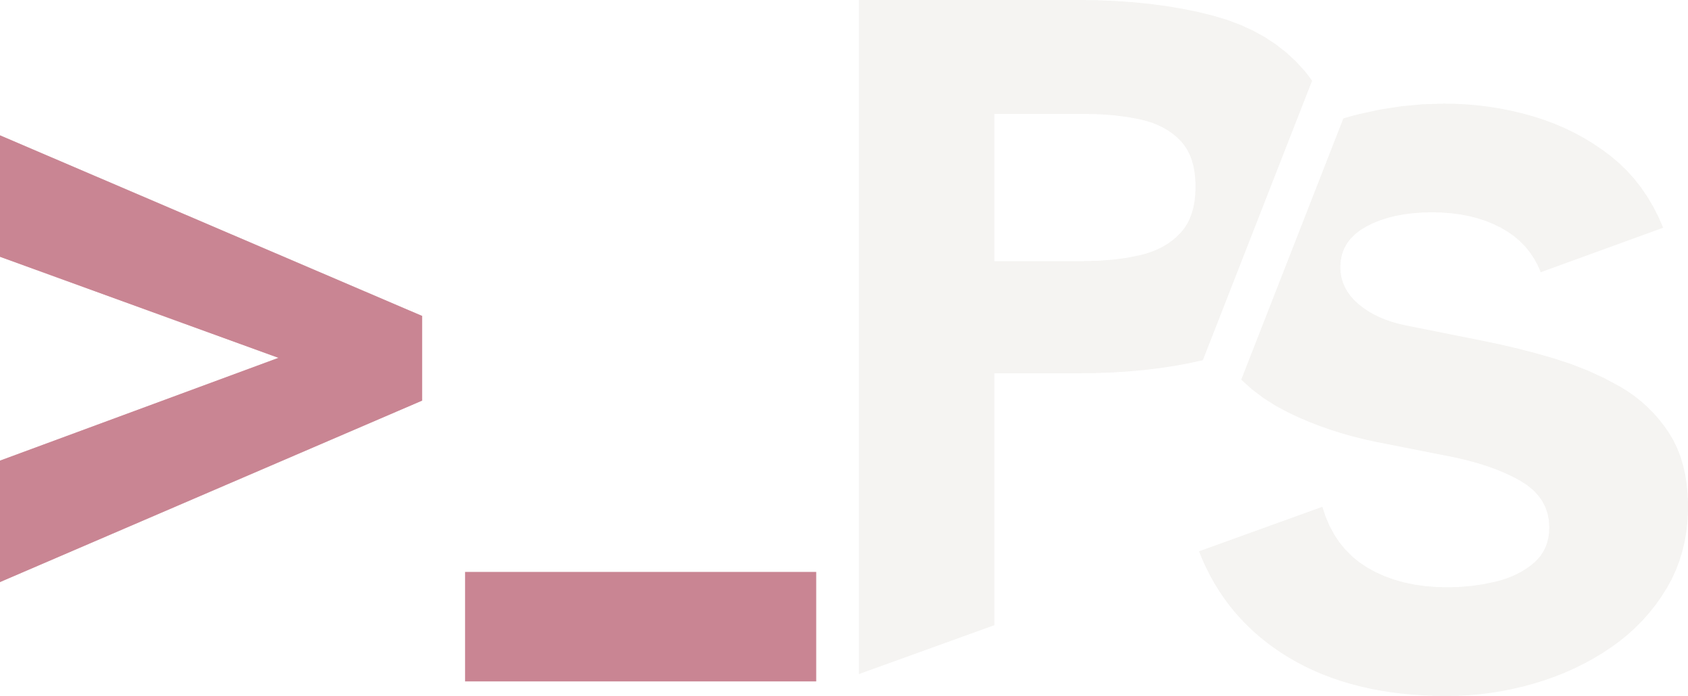
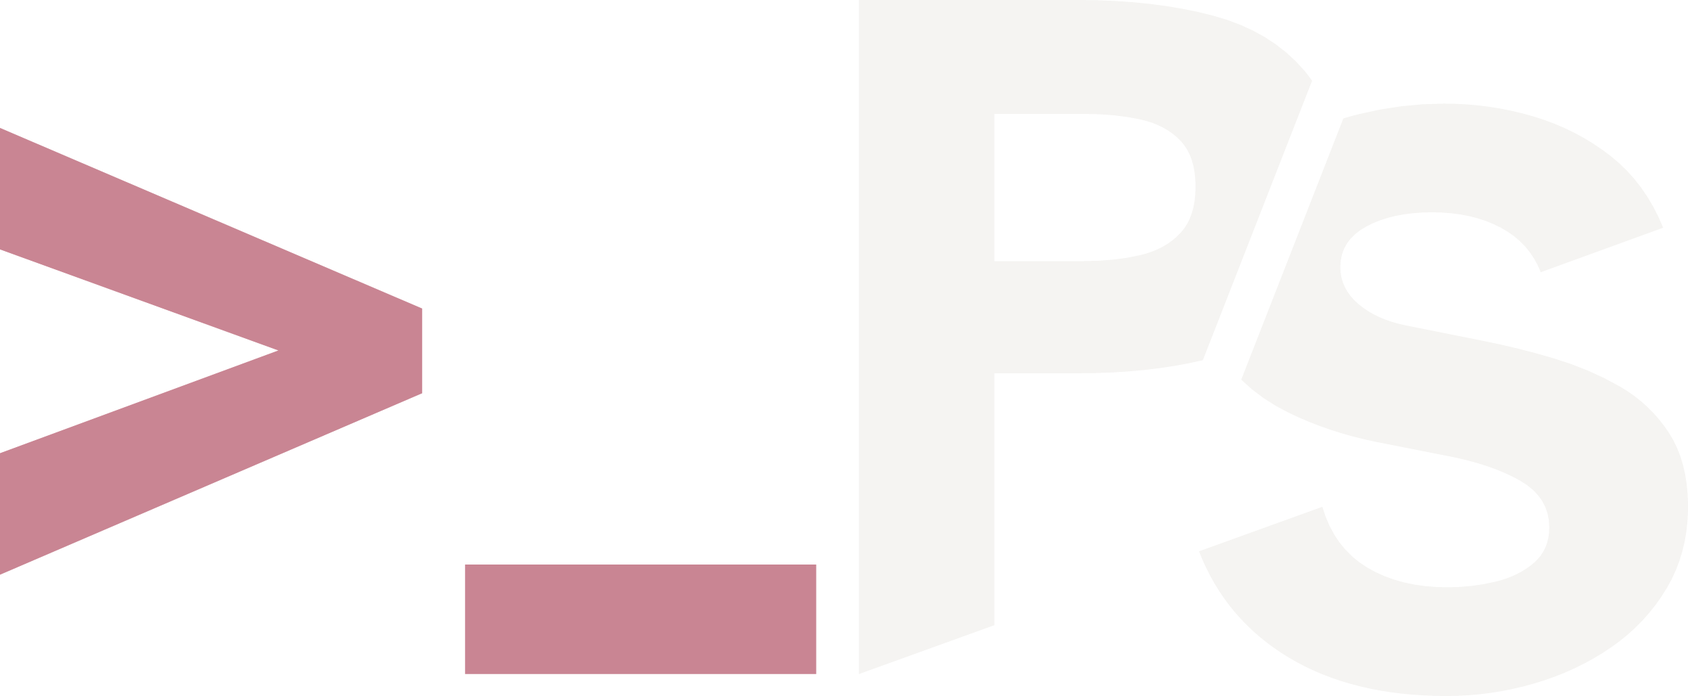
Lockup v2: >_ raised 8.63 units – the _ now ends on the P's foot
From the design (PS-Lockup v2, 29.10.2026): the _ ended 128 units below the
baseline, the P's foot at 119.37 – a near-miss, visible at large sizes. >_ is
raised as one unit by the difference, measured from the outlines; size,
spacing and the monogram are unchanged. src/lockup/ updated (generator, out/,
animation, README, new CHANGELOG). site.js: in the last step of the condensing
logo >_ rises with the S's step (RAISE * w), so the last drawn frame equals the
new static lockup (one antialiased pixel apart at 4x). Guide and decisions
updated.

Claude-Session: https://claude.ai/code/session_01RbRdR99UVq1kuPSyaMxg5y

diff --git a/site/datenschutz.html b/site/datenschutz.html
@@ -45,7 +45,7 @@
 <a class="skip" href="#main">Zum Inhalt springen</a>
 <header class="top">
 <div class="wrap">
-<a class="home" href="de/index.html"><svg class="lockup" xmlns="http://www.w3.org/2000/svg" viewBox="40 -668 1971.03 813" role="img" aria-label="Peter Stieg"><g class="still"><path style="fill:var(--accent,#7A1A2C)" d="M40 12 533 -200V-299L40 -510V-368L365 -250L40 -130ZM583 128H993V0H583Z"/><path style="fill:var(--ink,#1A1C1E)" d="M1043 119.37 1201 62.32V-232H1300Q1380.11 -232 1444.54 -247.26L1572.06 -573.65Q1568.04 -579.6 1563.5 -585Q1524 -632 1455.5 -650Q1387 -668 1300 -668H1043V119.37ZM1729.03 145Q1781.03 145 1831.03 130.5Q1881.03 116 1921.53 88Q1962.03 60 1986.53 18.5Q2011.03 -23 2011.03 -76Q2011.03 -128 1989.03 -162Q1967.03 -196 1931.53 -216.5Q1896.03 -237 1854.03 -249.5Q1812.03 -262 1771.03 -270L1681.03 -288Q1647.03 -295 1626.03 -313Q1605.03 -331 1605.03 -356Q1605.03 -387 1635.53 -403.5Q1666.03 -420 1712.03 -420Q1759.03 -420 1792.53 -402Q1826.03 -384 1839.03 -350L1982.03 -402Q1961.03 -454 1921.03 -485.5Q1881.03 -517 1830.53 -532Q1780.03 -547 1726.03 -547Q1676.03 -547 1626.03 -534.5Q1617.16 -532.28 1608.56 -529.67L1489.33 -224.52Q1512.87 -201.31 1545.53 -185.5Q1592.03 -163 1646.03 -152L1727.03 -136Q1781.03 -126 1815.03 -106.5Q1849.03 -87 1849.03 -52Q1849.03 -26 1831.03 -10.5Q1813.03 5 1786.03 11.5Q1759.03 18 1730.03 18Q1675.03 18 1636.53 -5Q1598.03 -28 1584.03 -76L1440.03 -24Q1471.03 56 1545.53 100.5Q1620.03 145 1729.03 145ZM1201 -363V-535H1305Q1342 -535 1371.5 -528.5Q1401 -522 1418.5 -503.5Q1436 -485 1436 -450Q1436 -415 1418.5 -396Q1401 -377 1371.5 -370Q1342 -363 1305 -363Z"/></g></svg></a>
+<a class="home" href="de/index.html"><svg class="lockup" xmlns="http://www.w3.org/2000/svg" viewBox="40 -668 1971.03 813" role="img" aria-label="Peter Stieg"><g class="still"><path style="fill:var(--accent,#7A1A2C)" d="M40 3.37 533 -208.63V-307.63L40 -518.63V-376.63L365 -258.63L40 -138.63ZM583 119.37H993V-8.63H583Z"/><path style="fill:var(--ink,#1A1C1E)" d="M1043 119.37 1201 62.32V-232H1300Q1380.11 -232 1444.54 -247.26L1572.06 -573.65Q1568.04 -579.6 1563.5 -585Q1524 -632 1455.5 -650Q1387 -668 1300 -668H1043V119.37ZM1729.03 145Q1781.03 145 1831.03 130.5Q1881.03 116 1921.53 88Q1962.03 60 1986.53 18.5Q2011.03 -23 2011.03 -76Q2011.03 -128 1989.03 -162Q1967.03 -196 1931.53 -216.5Q1896.03 -237 1854.03 -249.5Q1812.03 -262 1771.03 -270L1681.03 -288Q1647.03 -295 1626.03 -313Q1605.03 -331 1605.03 -356Q1605.03 -387 1635.53 -403.5Q1666.03 -420 1712.03 -420Q1759.03 -420 1792.53 -402Q1826.03 -384 1839.03 -350L1982.03 -402Q1961.03 -454 1921.03 -485.5Q1881.03 -517 1830.53 -532Q1780.03 -547 1726.03 -547Q1676.03 -547 1626.03 -534.5Q1617.16 -532.28 1608.56 -529.67L1489.33 -224.52Q1512.87 -201.31 1545.53 -185.5Q1592.03 -163 1646.03 -152L1727.03 -136Q1781.03 -126 1815.03 -106.5Q1849.03 -87 1849.03 -52Q1849.03 -26 1831.03 -10.5Q1813.03 5 1786.03 11.5Q1759.03 18 1730.03 18Q1675.03 18 1636.53 -5Q1598.03 -28 1584.03 -76L1440.03 -24Q1471.03 56 1545.53 100.5Q1620.03 145 1729.03 145ZM1201 -363V-535H1305Q1342 -535 1371.5 -528.5Q1401 -522 1418.5 -503.5Q1436 -485 1436 -450Q1436 -415 1418.5 -396Q1401 -377 1371.5 -370Q1342 -363 1305 -363Z"/></g></svg></a>
 <nav class="nav" aria-label="Hauptnavigation">
 
 <span class="themes" role="group" aria-label="Darstellung"><button type="button" data-theme-set="light" aria-pressed="false" aria-label="Hell" title="Hell"><svg viewBox="0 0 16 16" aria-hidden="true" focusable="false"><circle cx="8" cy="8" r="3"/><path d="M8 1v1.6M8 13.4V15M1 8h1.6M13.4 8H15M3.05 3.05l1.13 1.13M11.82 11.82l1.13 1.13M3.05 12.95l1.13-1.13M11.82 4.18l1.13-1.13"/></svg></button><button type="button" data-theme-set="dark" aria-pressed="false" aria-label="Dunkel" title="Dunkel"><svg viewBox="0 0 16 16" aria-hidden="true" focusable="false"><path d="M13.6 10.2A6 6 0 0 1 5.8 2.4a6 6 0 1 0 7.8 7.8z"/></svg></button></span></nav>

diff --git a/site/impressum.html b/site/impressum.html
@@ -45,7 +45,7 @@
 <a class="skip" href="#main">Zum Inhalt springen</a>
 <header class="top">
 <div class="wrap">
-<a class="home" href="de/index.html"><svg class="lockup" xmlns="http://www.w3.org/2000/svg" viewBox="40 -668 1971.03 813" role="img" aria-label="Peter Stieg"><g class="still"><path style="fill:var(--accent,#7A1A2C)" d="M40 12 533 -200V-299L40 -510V-368L365 -250L40 -130ZM583 128H993V0H583Z"/><path style="fill:var(--ink,#1A1C1E)" d="M1043 119.37 1201 62.32V-232H1300Q1380.11 -232 1444.54 -247.26L1572.06 -573.65Q1568.04 -579.6 1563.5 -585Q1524 -632 1455.5 -650Q1387 -668 1300 -668H1043V119.37ZM1729.03 145Q1781.03 145 1831.03 130.5Q1881.03 116 1921.53 88Q1962.03 60 1986.53 18.5Q2011.03 -23 2011.03 -76Q2011.03 -128 1989.03 -162Q1967.03 -196 1931.53 -216.5Q1896.03 -237 1854.03 -249.5Q1812.03 -262 1771.03 -270L1681.03 -288Q1647.03 -295 1626.03 -313Q1605.03 -331 1605.03 -356Q1605.03 -387 1635.53 -403.5Q1666.03 -420 1712.03 -420Q1759.03 -420 1792.53 -402Q1826.03 -384 1839.03 -350L1982.03 -402Q1961.03 -454 1921.03 -485.5Q1881.03 -517 1830.53 -532Q1780.03 -547 1726.03 -547Q1676.03 -547 1626.03 -534.5Q1617.16 -532.28 1608.56 -529.67L1489.33 -224.52Q1512.87 -201.31 1545.53 -185.5Q1592.03 -163 1646.03 -152L1727.03 -136Q1781.03 -126 1815.03 -106.5Q1849.03 -87 1849.03 -52Q1849.03 -26 1831.03 -10.5Q1813.03 5 1786.03 11.5Q1759.03 18 1730.03 18Q1675.03 18 1636.53 -5Q1598.03 -28 1584.03 -76L1440.03 -24Q1471.03 56 1545.53 100.5Q1620.03 145 1729.03 145ZM1201 -363V-535H1305Q1342 -535 1371.5 -528.5Q1401 -522 1418.5 -503.5Q1436 -485 1436 -450Q1436 -415 1418.5 -396Q1401 -377 1371.5 -370Q1342 -363 1305 -363Z"/></g></svg></a>
+<a class="home" href="de/index.html"><svg class="lockup" xmlns="http://www.w3.org/2000/svg" viewBox="40 -668 1971.03 813" role="img" aria-label="Peter Stieg"><g class="still"><path style="fill:var(--accent,#7A1A2C)" d="M40 3.37 533 -208.63V-307.63L40 -518.63V-376.63L365 -258.63L40 -138.63ZM583 119.37H993V-8.63H583Z"/><path style="fill:var(--ink,#1A1C1E)" d="M1043 119.37 1201 62.32V-232H1300Q1380.11 -232 1444.54 -247.26L1572.06 -573.65Q1568.04 -579.6 1563.5 -585Q1524 -632 1455.5 -650Q1387 -668 1300 -668H1043V119.37ZM1729.03 145Q1781.03 145 1831.03 130.5Q1881.03 116 1921.53 88Q1962.03 60 1986.53 18.5Q2011.03 -23 2011.03 -76Q2011.03 -128 1989.03 -162Q1967.03 -196 1931.53 -216.5Q1896.03 -237 1854.03 -249.5Q1812.03 -262 1771.03 -270L1681.03 -288Q1647.03 -295 1626.03 -313Q1605.03 -331 1605.03 -356Q1605.03 -387 1635.53 -403.5Q1666.03 -420 1712.03 -420Q1759.03 -420 1792.53 -402Q1826.03 -384 1839.03 -350L1982.03 -402Q1961.03 -454 1921.03 -485.5Q1881.03 -517 1830.53 -532Q1780.03 -547 1726.03 -547Q1676.03 -547 1626.03 -534.5Q1617.16 -532.28 1608.56 -529.67L1489.33 -224.52Q1512.87 -201.31 1545.53 -185.5Q1592.03 -163 1646.03 -152L1727.03 -136Q1781.03 -126 1815.03 -106.5Q1849.03 -87 1849.03 -52Q1849.03 -26 1831.03 -10.5Q1813.03 5 1786.03 11.5Q1759.03 18 1730.03 18Q1675.03 18 1636.53 -5Q1598.03 -28 1584.03 -76L1440.03 -24Q1471.03 56 1545.53 100.5Q1620.03 145 1729.03 145ZM1201 -363V-535H1305Q1342 -535 1371.5 -528.5Q1401 -522 1418.5 -503.5Q1436 -485 1436 -450Q1436 -415 1418.5 -396Q1401 -377 1371.5 -370Q1342 -363 1305 -363Z"/></g></svg></a>
 <nav class="nav" aria-label="Hauptnavigation">
 
 <span class="themes" role="group" aria-label="Darstellung"><button type="button" data-theme-set="light" aria-pressed="false" aria-label="Hell" title="Hell"><svg viewBox="0 0 16 16" aria-hidden="true" focusable="false"><circle cx="8" cy="8" r="3"/><path d="M8 1v1.6M8 13.4V15M1 8h1.6M13.4 8H15M3.05 3.05l1.13 1.13M11.82 11.82l1.13 1.13M3.05 12.95l1.13-1.13M11.82 4.18l1.13-1.13"/></svg></button><button type="button" data-theme-set="dark" aria-pressed="false" aria-label="Dunkel" title="Dunkel"><svg viewBox="0 0 16 16" aria-hidden="true" focusable="false"><path d="M13.6 10.2A6 6 0 0 1 5.8 2.4a6 6 0 1 0 7.8 7.8z"/></svg></button></span></nav>

diff --git a/site/de/index.html b/site/de/index.html
@@ -49,7 +49,7 @@
 <a class="skip" href="#main">Zum Inhalt springen</a>
 <header class="top">
 <div class="wrap">
-<a class="home" href="#top"><span class="word" aria-hidden="true"><span class="caret">&gt;_</span><span class="name">Peter Stieg</span></span><svg class="lockup" xmlns="http://www.w3.org/2000/svg" viewBox="40 -668 1971.03 813" role="img" aria-label="Peter Stieg"><g class="still"><path style="fill:var(--accent,#7A1A2C)" d="M40 12 533 -200V-299L40 -510V-368L365 -250L40 -130ZM583 128H993V0H583Z"/><path style="fill:var(--ink,#1A1C1E)" d="M1043 119.37 1201 62.32V-232H1300Q1380.11 -232 1444.54 -247.26L1572.06 -573.65Q1568.04 -579.6 1563.5 -585Q1524 -632 1455.5 -650Q1387 -668 1300 -668H1043V119.37ZM1729.03 145Q1781.03 145 1831.03 130.5Q1881.03 116 1921.53 88Q1962.03 60 1986.53 18.5Q2011.03 -23 2011.03 -76Q2011.03 -128 1989.03 -162Q1967.03 -196 1931.53 -216.5Q1896.03 -237 1854.03 -249.5Q1812.03 -262 1771.03 -270L1681.03 -288Q1647.03 -295 1626.03 -313Q1605.03 -331 1605.03 -356Q1605.03 -387 1635.53 -403.5Q1666.03 -420 1712.03 -420Q1759.03 -420 1792.53 -402Q1826.03 -384 1839.03 -350L1982.03 -402Q1961.03 -454 1921.03 -485.5Q1881.03 -517 1830.53 -532Q1780.03 -547 1726.03 -547Q1676.03 -547 1626.03 -534.5Q1617.16 -532.28 1608.56 -529.67L1489.33 -224.52Q1512.87 -201.31 1545.53 -185.5Q1592.03 -163 1646.03 -152L1727.03 -136Q1781.03 -126 1815.03 -106.5Q1849.03 -87 1849.03 -52Q1849.03 -26 1831.03 -10.5Q1813.03 5 1786.03 11.5Q1759.03 18 1730.03 18Q1675.03 18 1636.53 -5Q1598.03 -28 1584.03 -76L1440.03 -24Q1471.03 56 1545.53 100.5Q1620.03 145 1729.03 145ZM1201 -363V-535H1305Q1342 -535 1371.5 -528.5Q1401 -522 1418.5 -503.5Q1436 -485 1436 -450Q1436 -415 1418.5 -396Q1401 -377 1371.5 -370Q1342 -363 1305 -363Z"/></g></svg></a>
+<a class="home" href="#top"><span class="word" aria-hidden="true"><span class="caret">&gt;_</span><span class="name">Peter Stieg</span></span><svg class="lockup" xmlns="http://www.w3.org/2000/svg" viewBox="40 -668 1971.03 813" role="img" aria-label="Peter Stieg"><g class="still"><path style="fill:var(--accent,#7A1A2C)" d="M40 3.37 533 -208.63V-307.63L40 -518.63V-376.63L365 -258.63L40 -138.63ZM583 119.37H993V-8.63H583Z"/><path style="fill:var(--ink,#1A1C1E)" d="M1043 119.37 1201 62.32V-232H1300Q1380.11 -232 1444.54 -247.26L1572.06 -573.65Q1568.04 -579.6 1563.5 -585Q1524 -632 1455.5 -650Q1387 -668 1300 -668H1043V119.37ZM1729.03 145Q1781.03 145 1831.03 130.5Q1881.03 116 1921.53 88Q1962.03 60 1986.53 18.5Q2011.03 -23 2011.03 -76Q2011.03 -128 1989.03 -162Q1967.03 -196 1931.53 -216.5Q1896.03 -237 1854.03 -249.5Q1812.03 -262 1771.03 -270L1681.03 -288Q1647.03 -295 1626.03 -313Q1605.03 -331 1605.03 -356Q1605.03 -387 1635.53 -403.5Q1666.03 -420 1712.03 -420Q1759.03 -420 1792.53 -402Q1826.03 -384 1839.03 -350L1982.03 -402Q1961.03 -454 1921.03 -485.5Q1881.03 -517 1830.53 -532Q1780.03 -547 1726.03 -547Q1676.03 -547 1626.03 -534.5Q1617.16 -532.28 1608.56 -529.67L1489.33 -224.52Q1512.87 -201.31 1545.53 -185.5Q1592.03 -163 1646.03 -152L1727.03 -136Q1781.03 -126 1815.03 -106.5Q1849.03 -87 1849.03 -52Q1849.03 -26 1831.03 -10.5Q1813.03 5 1786.03 11.5Q1759.03 18 1730.03 18Q1675.03 18 1636.53 -5Q1598.03 -28 1584.03 -76L1440.03 -24Q1471.03 56 1545.53 100.5Q1620.03 145 1729.03 145ZM1201 -363V-535H1305Q1342 -535 1371.5 -528.5Q1401 -522 1418.5 -503.5Q1436 -485 1436 -450Q1436 -415 1418.5 -396Q1401 -377 1371.5 -370Q1342 -363 1305 -363Z"/></g></svg></a>
 <nav class="nav" aria-label="Hauptnavigation"><a class="sect" href="#profil"><span class="no" aria-hidden="true">01</span> <span class="label" data-label="Profil">Profil</span></a>
 <a class="sect" href="#stationen"><span class="no" aria-hidden="true">02</span> <span class="label" data-label="Stationen">Stationen</span></a>
 <a class="sect" href="#projekte"><span class="no" aria-hidden="true">03</span> <span class="label" data-label="Projekte">Projekte</span></a>

diff --git a/site/index.html b/site/index.html
@@ -49,7 +49,7 @@
 <a class="skip" href="#main">Skip to content</a>
 <header class="top">
 <div class="wrap">
-<a class="home" href="#top"><span class="word" aria-hidden="true"><span class="caret">&gt;_</span><span class="name">Peter Stieg</span></span><svg class="lockup" xmlns="http://www.w3.org/2000/svg" viewBox="40 -668 1971.03 813" role="img" aria-label="Peter Stieg"><g class="still"><path style="fill:var(--accent,#7A1A2C)" d="M40 12 533 -200V-299L40 -510V-368L365 -250L40 -130ZM583 128H993V0H583Z"/><path style="fill:var(--ink,#1A1C1E)" d="M1043 119.37 1201 62.32V-232H1300Q1380.11 -232 1444.54 -247.26L1572.06 -573.65Q1568.04 -579.6 1563.5 -585Q1524 -632 1455.5 -650Q1387 -668 1300 -668H1043V119.37ZM1729.03 145Q1781.03 145 1831.03 130.5Q1881.03 116 1921.53 88Q1962.03 60 1986.53 18.5Q2011.03 -23 2011.03 -76Q2011.03 -128 1989.03 -162Q1967.03 -196 1931.53 -216.5Q1896.03 -237 1854.03 -249.5Q1812.03 -262 1771.03 -270L1681.03 -288Q1647.03 -295 1626.03 -313Q1605.03 -331 1605.03 -356Q1605.03 -387 1635.53 -403.5Q1666.03 -420 1712.03 -420Q1759.03 -420 1792.53 -402Q1826.03 -384 1839.03 -350L1982.03 -402Q1961.03 -454 1921.03 -485.5Q1881.03 -517 1830.53 -532Q1780.03 -547 1726.03 -547Q1676.03 -547 1626.03 -534.5Q1617.16 -532.28 1608.56 -529.67L1489.33 -224.52Q1512.87 -201.31 1545.53 -185.5Q1592.03 -163 1646.03 -152L1727.03 -136Q1781.03 -126 1815.03 -106.5Q1849.03 -87 1849.03 -52Q1849.03 -26 1831.03 -10.5Q1813.03 5 1786.03 11.5Q1759.03 18 1730.03 18Q1675.03 18 1636.53 -5Q1598.03 -28 1584.03 -76L1440.03 -24Q1471.03 56 1545.53 100.5Q1620.03 145 1729.03 145ZM1201 -363V-535H1305Q1342 -535 1371.5 -528.5Q1401 -522 1418.5 -503.5Q1436 -485 1436 -450Q1436 -415 1418.5 -396Q1401 -377 1371.5 -370Q1342 -363 1305 -363Z"/></g></svg></a>
+<a class="home" href="#top"><span class="word" aria-hidden="true"><span class="caret">&gt;_</span><span class="name">Peter Stieg</span></span><svg class="lockup" xmlns="http://www.w3.org/2000/svg" viewBox="40 -668 1971.03 813" role="img" aria-label="Peter Stieg"><g class="still"><path style="fill:var(--accent,#7A1A2C)" d="M40 3.37 533 -208.63V-307.63L40 -518.63V-376.63L365 -258.63L40 -138.63ZM583 119.37H993V-8.63H583Z"/><path style="fill:var(--ink,#1A1C1E)" d="M1043 119.37 1201 62.32V-232H1300Q1380.11 -232 1444.54 -247.26L1572.06 -573.65Q1568.04 -579.6 1563.5 -585Q1524 -632 1455.5 -650Q1387 -668 1300 -668H1043V119.37ZM1729.03 145Q1781.03 145 1831.03 130.5Q1881.03 116 1921.53 88Q1962.03 60 1986.53 18.5Q2011.03 -23 2011.03 -76Q2011.03 -128 1989.03 -162Q1967.03 -196 1931.53 -216.5Q1896.03 -237 1854.03 -249.5Q1812.03 -262 1771.03 -270L1681.03 -288Q1647.03 -295 1626.03 -313Q1605.03 -331 1605.03 -356Q1605.03 -387 1635.53 -403.5Q1666.03 -420 1712.03 -420Q1759.03 -420 1792.53 -402Q1826.03 -384 1839.03 -350L1982.03 -402Q1961.03 -454 1921.03 -485.5Q1881.03 -517 1830.53 -532Q1780.03 -547 1726.03 -547Q1676.03 -547 1626.03 -534.5Q1617.16 -532.28 1608.56 -529.67L1489.33 -224.52Q1512.87 -201.31 1545.53 -185.5Q1592.03 -163 1646.03 -152L1727.03 -136Q1781.03 -126 1815.03 -106.5Q1849.03 -87 1849.03 -52Q1849.03 -26 1831.03 -10.5Q1813.03 5 1786.03 11.5Q1759.03 18 1730.03 18Q1675.03 18 1636.53 -5Q1598.03 -28 1584.03 -76L1440.03 -24Q1471.03 56 1545.53 100.5Q1620.03 145 1729.03 145ZM1201 -363V-535H1305Q1342 -535 1371.5 -528.5Q1401 -522 1418.5 -503.5Q1436 -485 1436 -450Q1436 -415 1418.5 -396Q1401 -377 1371.5 -370Q1342 -363 1305 -363Z"/></g></svg></a>
 <nav class="nav" aria-label="Main"><a class="sect" href="#profile"><span class="no" aria-hidden="true">01</span> <span class="label" data-label="Profile">Profile</span></a>
 <a class="sect" href="#experience"><span class="no" aria-hidden="true">02</span> <span class="label" data-label="Experience">Experience</span></a>
 <a class="sect" href="#projects"><span class="no" aria-hidden="true">03</span> <span class="label" data-label="Projects">Projects</span></a>

diff --git a/site/404.html b/site/404.html
@@ -45,7 +45,7 @@
 <a class="skip" href="#main">Skip to content</a>
 <header class="top">
 <div class="wrap">
-<a class="home" href="/index.html"><svg class="lockup" xmlns="http://www.w3.org/2000/svg" viewBox="40 -668 1971.03 813" role="img" aria-label="Peter Stieg"><g class="still"><path style="fill:var(--accent,#7A1A2C)" d="M40 12 533 -200V-299L40 -510V-368L365 -250L40 -130ZM583 128H993V0H583Z"/><path style="fill:var(--ink,#1A1C1E)" d="M1043 119.37 1201 62.32V-232H1300Q1380.11 -232 1444.54 -247.26L1572.06 -573.65Q1568.04 -579.6 1563.5 -585Q1524 -632 1455.5 -650Q1387 -668 1300 -668H1043V119.37ZM1729.03 145Q1781.03 145 1831.03 130.5Q1881.03 116 1921.53 88Q1962.03 60 1986.53 18.5Q2011.03 -23 2011.03 -76Q2011.03 -128 1989.03 -162Q1967.03 -196 1931.53 -216.5Q1896.03 -237 1854.03 -249.5Q1812.03 -262 1771.03 -270L1681.03 -288Q1647.03 -295 1626.03 -313Q1605.03 -331 1605.03 -356Q1605.03 -387 1635.53 -403.5Q1666.03 -420 1712.03 -420Q1759.03 -420 1792.53 -402Q1826.03 -384 1839.03 -350L1982.03 -402Q1961.03 -454 1921.03 -485.5Q1881.03 -517 1830.53 -532Q1780.03 -547 1726.03 -547Q1676.03 -547 1626.03 -534.5Q1617.16 -532.28 1608.56 -529.67L1489.33 -224.52Q1512.87 -201.31 1545.53 -185.5Q1592.03 -163 1646.03 -152L1727.03 -136Q1781.03 -126 1815.03 -106.5Q1849.03 -87 1849.03 -52Q1849.03 -26 1831.03 -10.5Q1813.03 5 1786.03 11.5Q1759.03 18 1730.03 18Q1675.03 18 1636.53 -5Q1598.03 -28 1584.03 -76L1440.03 -24Q1471.03 56 1545.53 100.5Q1620.03 145 1729.03 145ZM1201 -363V-535H1305Q1342 -535 1371.5 -528.5Q1401 -522 1418.5 -503.5Q1436 -485 1436 -450Q1436 -415 1418.5 -396Q1401 -377 1371.5 -370Q1342 -363 1305 -363Z"/></g></svg></a>
+<a class="home" href="/index.html"><svg class="lockup" xmlns="http://www.w3.org/2000/svg" viewBox="40 -668 1971.03 813" role="img" aria-label="Peter Stieg"><g class="still"><path style="fill:var(--accent,#7A1A2C)" d="M40 3.37 533 -208.63V-307.63L40 -518.63V-376.63L365 -258.63L40 -138.63ZM583 119.37H993V-8.63H583Z"/><path style="fill:var(--ink,#1A1C1E)" d="M1043 119.37 1201 62.32V-232H1300Q1380.11 -232 1444.54 -247.26L1572.06 -573.65Q1568.04 -579.6 1563.5 -585Q1524 -632 1455.5 -650Q1387 -668 1300 -668H1043V119.37ZM1729.03 145Q1781.03 145 1831.03 130.5Q1881.03 116 1921.53 88Q1962.03 60 1986.53 18.5Q2011.03 -23 2011.03 -76Q2011.03 -128 1989.03 -162Q1967.03 -196 1931.53 -216.5Q1896.03 -237 1854.03 -249.5Q1812.03 -262 1771.03 -270L1681.03 -288Q1647.03 -295 1626.03 -313Q1605.03 -331 1605.03 -356Q1605.03 -387 1635.53 -403.5Q1666.03 -420 1712.03 -420Q1759.03 -420 1792.53 -402Q1826.03 -384 1839.03 -350L1982.03 -402Q1961.03 -454 1921.03 -485.5Q1881.03 -517 1830.53 -532Q1780.03 -547 1726.03 -547Q1676.03 -547 1626.03 -534.5Q1617.16 -532.28 1608.56 -529.67L1489.33 -224.52Q1512.87 -201.31 1545.53 -185.5Q1592.03 -163 1646.03 -152L1727.03 -136Q1781.03 -126 1815.03 -106.5Q1849.03 -87 1849.03 -52Q1849.03 -26 1831.03 -10.5Q1813.03 5 1786.03 11.5Q1759.03 18 1730.03 18Q1675.03 18 1636.53 -5Q1598.03 -28 1584.03 -76L1440.03 -24Q1471.03 56 1545.53 100.5Q1620.03 145 1729.03 145ZM1201 -363V-535H1305Q1342 -535 1371.5 -528.5Q1401 -522 1418.5 -503.5Q1436 -485 1436 -450Q1436 -415 1418.5 -396Q1401 -377 1371.5 -370Q1342 -363 1305 -363Z"/></g></svg></a>
 <nav class="nav" aria-label="Main">
 
 <span class="themes" role="group" aria-label="Theme"><button type="button" data-theme-set="light" aria-pressed="false" aria-label="Light" title="Light"><svg viewBox="0 0 16 16" aria-hidden="true" focusable="false"><circle cx="8" cy="8" r="3"/><path d="M8 1v1.6M8 13.4V15M1 8h1.6M13.4 8H15M3.05 3.05l1.13 1.13M11.82 11.82l1.13 1.13M3.05 12.95l1.13-1.13M11.82 4.18l1.13-1.13"/></svg></button><button type="button" data-theme-set="dark" aria-pressed="false" aria-label="Dark" title="Dark"><svg viewBox="0 0 16 16" aria-hidden="true" focusable="false"><path d="M13.6 10.2A6 6 0 0 1 5.8 2.4a6 6 0 1 0 7.8 7.8z"/></svg></button></span></nav>

diff --git a/site/assets/site.js b/site/assets/site.js
@@ -163,6 +163,7 @@
   const GAP_C = 350, GAP_H = 25;                                   // the gap: centre and half width, square to the /
   const S_SLOT = 626 - 158;                                        // the S one stem under the bowl
   const STEP = [-133 * 261 / 668, -133];                           // one bar (133) down the slash
+  const RAISE = 128 - 119.3735;                                    // >_ up until the _ ends on the foot (lockup v2): 8.63
   const KT = 52 / 144;                                             // slope of the S's lower end, 19.86°
   const SLASH_REL = 626 + LS, S_REL = SLASH_REL + 15 + 261 + HW + 15 + LS;   // "P/S" as text, relative to P
   const S_WORD = WORD[6][1] - P_TXT;                               // the S of STIEG, relative to P
@@ -221,14 +222,14 @@
     const a = clamp01(v / 0.25);                                   // 0–25 %: the other letters fade out
     const b = ease(clamp01((v - 0.2) / 0.3));                      // 20–50 %: the S closes up, the / appears – P/S
     const u = ease(clamp01((v - 0.45) / 0.4));                     // 45–85 %: Enter – P/S slide together
-    const w = sine(clamp01((v - 0.8) / 0.2));                      // 80–100 %: the S steps down, the foot grows
+    const w = sine(clamp01((v - 0.8) / 0.2));                      // 80–100 %: the S steps down, the foot grows, >_ rises
     const z = ease(clamp01((v - 0.4) / 0.6));                      // 40–100 %: from 16 px text to the 28 px lockup
     const px = lerp(P_TXT, P_END, u);
     const sRel = lerp(lerp(S_WORD, S_REL, b), S_SLOT, u);
     const sl = SL_TXT.map((p, i) => [lerp(p[0], SL_END[i][0], u) + px, lerp(p[1], SL_END[i][1], u)]);
     const k = 1 - clamp01((u - 0.55) / 0.35);                      // the / fades into the gap
     const use = (id, x, y, extra = "") => `<use href="#lk-${id}" x="${x.toFixed(1)}" y="${y.toFixed(1)}"${extra}/>`;
-    let s = `<g class="acc">${use("gt", 0, 0)}${use("us", 573, 0)}</g><g class="ink">`;
+    let s = `<g class="acc">${use("gt", 0, RAISE * w)}${use("us", 573, RAISE * w)}</g><g class="ink">`;
     s += `<clipPath id="lk-cp" clipPathUnits="userSpaceOnUse"><polygon points="${halfPlane(sl[0], sl[1], -1)}"/></clipPath>`;
     s += `<clipPath id="lk-cs" clipPathUnits="userSpaceOnUse"><polygon points="${halfPlane(sl[3], sl[2], 1)}"/></clipPath>`;
     s += `<g clip-path="url(#lk-cp)">${use("P", px, 0)}</g>`;

diff --git a/src/lockup/animation/ps-morph.html b/src/lockup/animation/ps-morph.html
@@ -321,6 +321,9 @@ tr.hit td.deg { color: var(--accent); font-weight: 700; }
     return [[44, top], [202, top], [202, yr], [44, yl]];
   }
   const FOOT_END = foot(1);
+  // v2 (29.10.2026): ">_" rises until the "_"'s bottom edge sits on the foot's lowest point
+  const US_Y = -128;                                 // the "_"'s bottom edge in the font
+  const RAISE = FOOT_END[3][1] - US_Y;               // foot's lowest point (−119.37) minus that: 8.63
 
   // ---- "Ein Takt": the P's stem starts 50 after the "_" ends, like > to _ and P to S ------
   const US_R = GAP_X + 420;                          // right end of the "_": 993
@@ -376,7 +379,9 @@ tr.hit td.deg { color: var(--accent); font-weight: 700; }
 
   function markup(t, id, opt) {
     const ed = editor(t);
-    let s = use(">", 0, 0, "acc");                         // the prompt never moves
+    // the prompt only moves in the Enter step: it rises with the foot (same timing), so they meet at the end
+    const lift = t < T.design ? 0 : RAISE * sine(prog(t, T.stepA, T.stepB));
+    let s = use(">", 0, lift, "acc");
     const L = layout(ed.chars);
     const xAt = i => i < ed.chars.length ? L.xs[i] : L.end;
     if (t < T.design) {
@@ -403,7 +408,7 @@ tr.hit td.deg { color: var(--accent); font-weight: 700; }
     }
     if (blinkOn(t, ed.last) || t >= T.end - 0.01) {
       const i = ed.caret, x0 = xAt(i), cw = i < ed.chars.length ? adv(ed.chars[i]) : 430;
-      s += `<rect class="acc" x="${x0 + 10}" y="-128" width="${cw - 20}" height="128"/>`;
+      s += `<rect class="acc" x="${x0 + 10}" y="${(US_Y + lift).toFixed(4)}" width="${cw - 20}" height="128"/>`;
     }
     return s;
   }

diff --git a/src/lockup/lockup_takt50.py b/src/lockup/lockup_takt50.py
@@ -4,6 +4,8 @@ Every number comes from Atkinson Hyperlegible Bold (the woff2 that peterstieg.co
   > to _   50   the font's own distance (> ink ends at 533, _ ink starts at 573 + 10)
   _ to P   50   same beat: the P's stem starts 50 after the _ ends
   P to S   50   the monogram's gap, measured square to the slash (68.66 deg, the font's "/")
+Vertically, ">_" is raised as one unit until the "_"'s bottom edge sits on the lowest point of the
+P's foot (v2, 29.10.2026). The offset is measured from the outlines, not typed in: 8.63.
 The monogram itself is the locked "one-bar step": S one stem (158) under the bowl, gap 50
 centred where it takes the same ink from P and S, S one bar (133) down the slash, the P's stem
 extended to the line of the S's lower terminal (19.86 deg).
@@ -80,13 +82,19 @@ def bounds(path):
 if __name__ == '__main__':
     P, S, (f0, f1) = monogram()
     mark = op(shifted(P, P_X), shifted(S, P_X), U)
-    prompt = op(glyph('>'), glyph('_', 573), U)
+    # v2: raise ">_" so the "_"'s bottom edge sits on the foot's lowest point (the P's lowest point)
+    RAISE = bounds(P)[1] - bounds(glyph('_'))[1]     # -119.37 - (-128) = 8.63
+    prompt = op(glyph('>', 0, RAISE), glyph('_', 573, RAISE), U)
     mb, pb = bounds(mark), bounds(prompt)
     x0, y0, x1, y1 = min(mb[0], pb[0]), min(mb[1], pb[1]), max(mb[2], pb[2]), max(mb[3], pb[3])
     W, H = x1 - x0, y1 - y0
     print('monogram %.1f x %.1f   foot %.1f .. %.1f' % (mb[2] - mb[0], mb[3] - mb[1], f0, f1))
     print('lockup   %.1f x %.1f   ratio %.3f' % (W, H, W / H))
     print('beats    > to _: %.1f   _ to P: %.1f' % (573 + 10 - 533, (P_X + 44) - US_R))
+    gb, ub = bounds(glyph('>', 0, RAISE)), bounds(glyph('_', 573, RAISE))
+    print('raise    %.10f   _ bottom %.4f   foot lowest %.4f' % (RAISE, ub[1], bounds(P)[1]))
+    print('>        x %g..%g   y %.4f..%.4f (SVG y %.4f..%.4f)' % (gb[0], gb[2], gb[1], gb[3], -gb[3], -gb[1]))
+    print('_        x %g..%g   y %.4f..%.4f (SVG y %.4f..%.4f)' % (ub[0], ub[2], ub[1], ub[3], -ub[3], -ub[1]))
     vb = '%g %g %g %g' % (x0, -y1, W, H)
     out = HERE / 'out'; out.mkdir(exist_ok=True)
     pd, md = svg_d(prompt), svg_d(mark)

diff --git a/docs/04-js.md b/docs/04-js.md
@@ -560,6 +560,7 @@ The trick that makes it seamless: the script draws every frame from the same gly
   const GAP_C = 350, GAP_H = 25;                                   // the gap: centre and half width, square to the /
   const S_SLOT = 626 - 158;                                        // the S one stem under the bowl
   const STEP = [-133 * 261 / 668, -133];                           // one bar (133) down the slash
+  const RAISE = 128 - 119.3735;                                    // >_ up until the _ ends on the foot (lockup v2): 8.63
   const KT = 52 / 144;                                             // slope of the S's lower end, 19.86°
   const SLASH_REL = 626 + LS, S_REL = SLASH_REL + 15 + 261 + HW + 15 + LS;   // "P/S" as text, relative to P
   const S_WORD = WORD[6][1] - P_TXT;                               // the S of STIEG, relative to P
@@ -576,6 +577,7 @@ Every number is a measurement of the font or a decision of the design (`src/lock
   - `"PETER STIEG"[i]` – a string can be indexed like an array.
 - `GAP_C`, `GAP_H` – the gap between P and S: its centre line and half its width (25 + 25 = 50), measured square to the slash.
 - `S_SLOT` – where the S sits in the monogram: one stem (158) inside the P's width (626). `STEP` – one bar (133) down along the slash, which moves the S without leaving the gap's line. `KT` – the slope of the S's lower end (52 over 144, 19.86°), the line the P's foot follows.
+- `RAISE` – how far `>_` rises in the last step: the `_` ends 128 units below the baseline, the P's foot 119.37 (its lowest point, at the left end). Lockup v2 (`src/lockup/CHANGELOG.md`) raises `>_` by the difference, 8.63 units, so the two bottom edges meet instead of missing each other by a hair. At the header's 28 px that is 0.3 px; on the large exports it was visible. Written as the subtraction, so the source of the number stays readable.
 - `SLASH_REL`, `S_REL` – "P/S" set as text: where the `/` and the S start, relative to the P. `S_WORD` – where the S of STIEG starts, relative to the P.
 
 ### Shapes
@@ -668,7 +670,7 @@ The first frame has to sit exactly where the header text sits. `lockMeasure` fin
     const a = clamp01(v / 0.25);                                   // 0–25 %: the other letters fade out
     const b = ease(clamp01((v - 0.2) / 0.3));                      // 20–50 %: the S closes up, the / appears – P/S
     const u = ease(clamp01((v - 0.45) / 0.4));                     // 45–85 %: Enter – P/S slide together
-    const w = sine(clamp01((v - 0.8) / 0.2));                      // 80–100 %: the S steps down, the foot grows
+    const w = sine(clamp01((v - 0.8) / 0.2));                      // 80–100 %: the S steps down, the foot grows, >_ rises
     const z = ease(clamp01((v - 0.4) / 0.6));                      // 40–100 %: from 16 px text to the 28 px lockup
     const px = lerp(P_TXT, P_END, u);
     const sRel = lerp(lerp(S_WORD, S_REL, b), S_SLOT, u);
@@ -683,7 +685,7 @@ Five overlapping phases, each with its own progress from 0 to 1:
 | 0 – 0.25 | `a` | E, T, E, R and T, I, E, G fade out |
 | 0.2 – 0.5 | `b` | the S closes up to the P, the thin `/` fades in: "P/S" as text |
 | 0.45 – 0.85 | `u` | "Enter": P moves left to 50 behind the `_`, the `/` glides into the gap, the S slides under the bowl |
-| 0.8 – 1 | `w` | the S steps down one bar, the P's foot grows with it |
+| 0.8 – 1 | `w` | the S steps down one bar, the P's foot grows with it, `>_` rises by `RAISE` until the `_` ends on the foot |
 | 0.4 – 1 | `z` | the zoom: from 16 px text to the 28 px lockup |
 
 - `ease` (the cubic S-curve from Docking) and `sine` (a gentler one) give each phase a soft start and end.
@@ -691,7 +693,7 @@ Five overlapping phases, each with its own progress from 0 to 1:
 
 ```js
     const use = (id, x, y, extra = "") => `<use href="#lk-${id}" x="${x.toFixed(1)}" y="${y.toFixed(1)}"${extra}/>`;
-    let s = `<g class="acc">${use("gt", 0, 0)}${use("us", 573, 0)}</g><g class="ink">`;
+    let s = `<g class="acc">${use("gt", 0, RAISE * w)}${use("us", 573, RAISE * w)}</g><g class="ink">`;
     s += `<clipPath id="lk-cp" clipPathUnits="userSpaceOnUse"><polygon points="${halfPlane(sl[0], sl[1], -1)}"/></clipPath>`;
     s += `<clipPath id="lk-cs" clipPathUnits="userSpaceOnUse"><polygon points="${halfPlane(sl[3], sl[2], 1)}"/></clipPath>`;
     s += `<g clip-path="url(#lk-cp)">${use("P", px, 0)}</g>`;
@@ -711,6 +713,7 @@ Five overlapping phases, each with its own progress from 0 to 1:
 ```
 
 - `use(…)` – one `<use>` element: a copy of a glyph from `<defs>`, moved to (x, y). `x` and `y` on `<use>` act like a translation.
+- `use("gt", 0, RAISE * w)`, `use("us", 573, RAISE * w)` – `>` and `_` keep their x and rise together with the S's step: 0 at the start of the step, 8.63 at its end. Positive y is up here, because the camera below flips the axis (font outlines point up). The same timing as in `src/lockup/animation/ps-morph.html`, where `>_` rises with the S and the foot, so `_` and foot meet in the last frame. Measured: the last drawn frame and the static lockup differ by one antialiased pixel at 4× zoom.
 - `<g class="acc">` and `<g class="ink">` – the two colours, set in the CSS (`.lockup .acc`, `.lockup .ink`). The glyph paths carry no fill of their own, so they inherit it from the group.
 - The two `<clipPath>`s – the P keeps only what lies left of the gap, the S only what lies right of it. `clipPathUnits="userSpaceOnUse"` means the polygon is given in the same coordinates as the letters.
 - The other letters get `opacity` 1 − `a`; T, I, E and G move along with the S, so they never overlap it.

diff --git a/docs/decisions.md b/docs/decisions.md
@@ -28,7 +28,7 @@ Why the site looks and reads the way it does. Newest first within each topic; ch
 - **Typeface:** Atkinson Hyperlegible, self-hosted, no font service.
 - **Colour:** bordeaux as the only accent (prompt, focus, footnotes, hover). Light and dark themes with the same structure.
 - **Hero:** same order as the LinkedIn banner – name, tagline, claim, prompt `>_ sudo dream plan ship`.
-- **Logo:** the lockup `>_ P/S` ("Ein Takt", decided 25.10.2026) in the header, 28 px tall, inline so it follows light and dark. Source and generator in `src/lockup/`. The monogram alone (final 23.10.2026, `src/monogram/`) is the favicon set, the mark in the link preview (`og-image.png`), the avatar and the footer of printed documents.
+- **Logo:** the lockup `>_ P/S` ("Ein Takt", decided 25.10.2026; v2 29.10.2026: `>_` raised 8.63 units, so the `_` ends exactly on the P's foot instead of missing it by a hair) in the header, 28 px tall, inline so it follows light and dark. Source and generator in `src/lockup/`. The monogram alone (final 23.10.2026, `src/monogram/`) is the favicon set, the mark in the link preview (`og-image.png`), the avatar and the footer of printed documents.
 - **Docking:** while scrolling, PETER STIEG and `>_` travel into the header as the wordmark `>_ PETER STIEG`, so the name is visible once. Scrolling on (180 px), the wordmark condenses into the lockup – the closing step of `src/lockup/animation/ps-morph.html`, scroll-driven and reversible. Reduced motion: the lockup appears instantly.
 - **Minimap:** on wide screens, the page drawn as code lines like the banner; click or drag to jump.
 - **Jump control:** once the name has docked, a pill bottom right (under the minimap on wide screens): up, the chapter number, down. Up and down go to the start of the section above and below, the number opens a list of all sections. It replaced the round back-to-top button. Without JavaScript: up to the top and the list.

diff --git a/src/lockup/CHANGELOG.md b/src/lockup/CHANGELOG.md
@@ -1,0 +1,17 @@
+# Changelog
+
+## v2 · 29.10.2026
+
+Closes the near-miss between `_` and the P's foot.
+
+- `>_` is raised as one unit by **8.6265** units (8.63). `lockup_takt50.py` measures it from the outlines: the P's lowest point, the left end of the foot at −119.3735, minus the `_`'s bottom edge at −128.
+- New coordinates in `out/lockup.svg` (y down, baseline 0, font units):
+  - `>`: x 40 to 533, y −518.63 to 3.37 (v1: −510 to 12)
+  - `_`: x 583 to 993, y −8.63 to 119.37 (v1: 0 to 128). Its bottom edge now lies on the foot's lowest point (x 1043, y 119.37).
+- Unchanged:
+  - the size: viewBox `40 −668 1971.03 813`, 1971 × 813. The top stays at the P (−668), the bottom at the S (145).
+  - the horizontal spacing: `>` to `_`, `_` to P and P to S are 50 each.
+  - the monogram part: its path is byte for byte the same as in v1.
+  - the colours.
+- Animation: `>_` travels the 8.63 units in step 6, "Enter", between 6.85 and 7.45 s. It rises with the same easing and timing as the S stepping down and the foot growing, so the `_` and the foot meet at 7.45 s. The last frame matches the new lockup.
+- Changed files: `lockup_takt50.py`, `out/*` (only the prompt path), `animation/ps-morph.html`, `README.md`.

diff --git a/src/lockup/README.md b/src/lockup/README.md
@@ -12,6 +12,7 @@ Decided 25.10.2026. The locked PS monogram (23.10.2026, one-bar step) next to th
 | `out/lockup-light.png`, `out/lockup-dark.png` | 2400 px wide, transparent |
 | `lockup_takt50.py` | regenerates every file from the font (`pip install fonttools brotli skia-pathops resvg-py`) |
 | `animation/ps-morph.html` | the animation from `>_ PETER STIEG` to this lockup, open in a browser |
+| `CHANGELOG.md` | what changed between versions |
 
 ## Construction
 
@@ -22,6 +23,7 @@ Font units, Atkinson Hyperlegible Bold, UPM 1000.
 | `>` to `_` | 50 | the font's own spacing |
 | `_` to P | 50 | the same beat |
 | P to S | 50 | the monogram's gap, square to the slash (68.66°) |
+| `_` bottom to the P's foot | 0 | vertical: `>_` raised as one unit by 8.63, so the `_`'s bottom edge sits on the foot's lowest point (−119.37); the offset is measured from the outlines (v2) |
 
 - Size: 1971 × 813 (2.42 : 1). The monogram part is identical to `PS-Monogram_final` (968 × 813).
 - Prompt in accent, letters in ink. No other spacing, no other colours.
